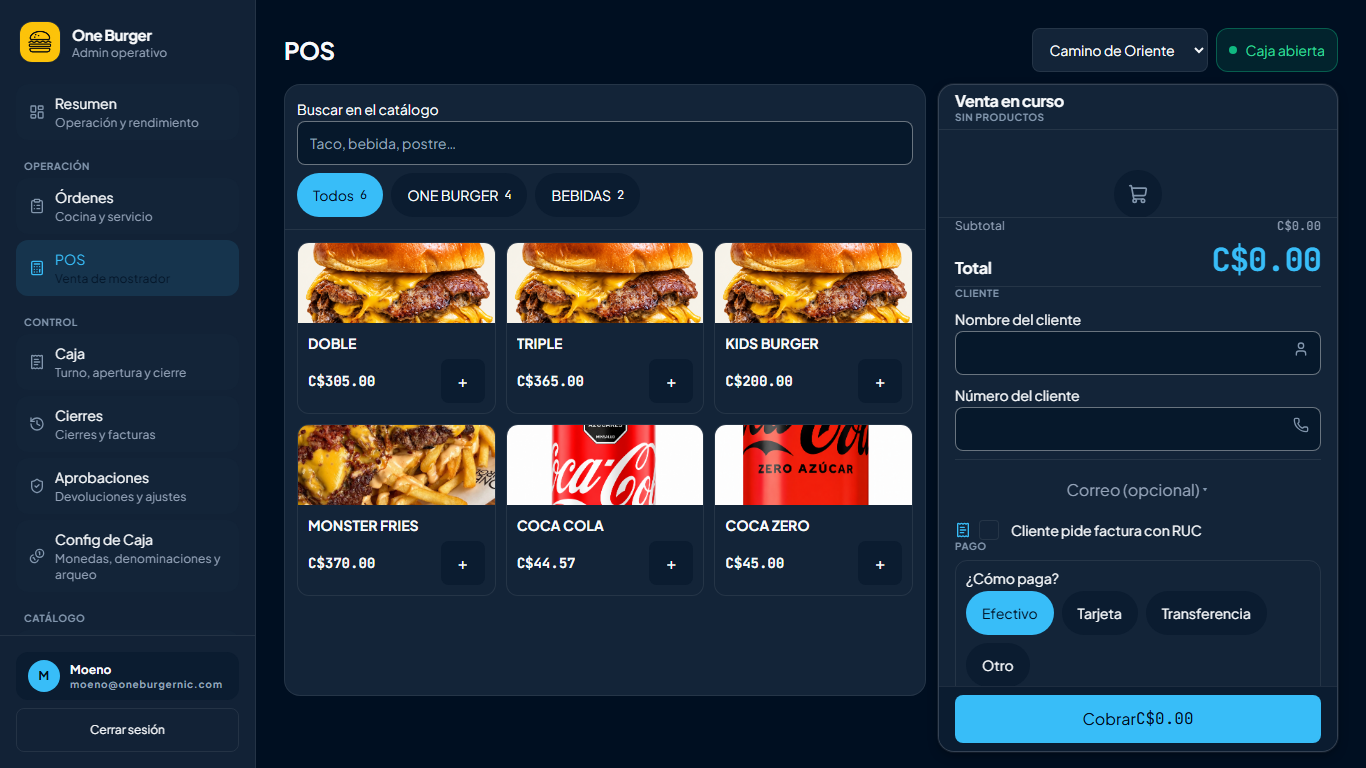
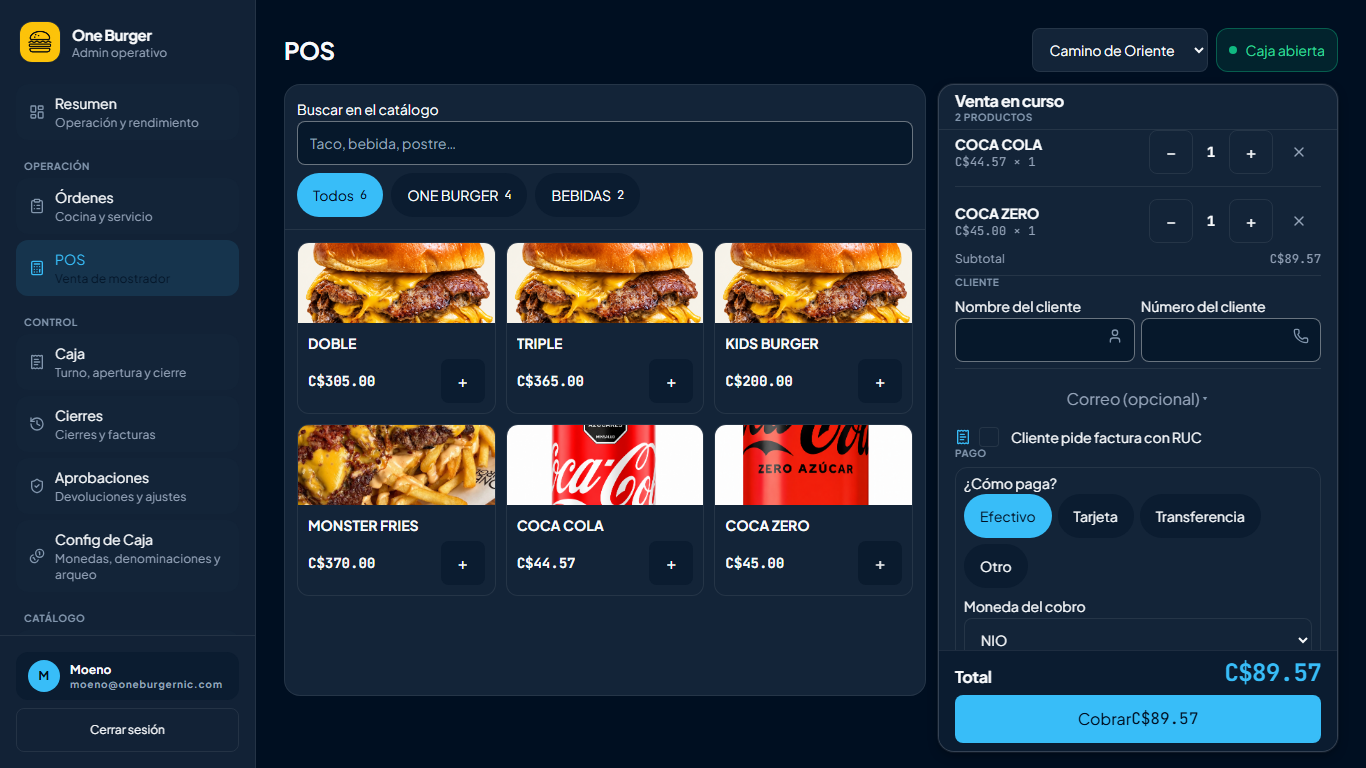
docs(estado): cierra POS Fase 1 definitivamente (001.2 desplegada y QA de produccion hecha) (#72)
Problema: el cierre de TASK exige que ops/CURRENT.md, la spec y el roadmap reflejen lo
desplegado y lo verificado. La 001.2 (ticket de un solo scroll) quedo en produccion como
build-20260927-193653 sobre 4f69a24 y la QA autenticada ya corrio en los cuatro viewports.

Cambios:
- ops/CURRENT.md: ultimo deploy, commit de main y §4/§5 con POS Fase 1 CERRADA
  DEFINITIVAMENTE. La QA autenticada de produccion se registra con su medicion real sobre
  la carta real del local: una sola superficie con scroll en el ticket, ninguna fila
  cortada, pagoOffset 0 a 1366x768 y 1280x720, cero scroll horizontal y scroll de pagina 0
  en escritorio (375x812 queda en 155 px, que es el comportamiento de la referencia).
- ops/design/screens/pos-quick-sale.md: estado con el build y el commit, y la tabla de
  medicion de la esquina mas ajustada.
- ops/roadmap/NEXT.md y PRODUCT-UX-ROADMAP.md: la Fase 1 cerrada definitivamente y la
  Fase 2 como decision aparte del owner (no se inicia sola).
- Capturas de produccion de los cuatro viewports.

Sin codigo, sin dominio, sin endpoints, sin DB y sin migraciones. La Fase 2 NO se inicia.

Verificacion: contratos 145 verdes (ops/CURRENT.md en 249 lineas, bajo su techo de 250);
/api/health = build-20260927-193653 y /api/readiness ready (DB 2 ms); smokes 7/7 y 6/6.

diff --git a/ops/CURRENT.md b/ops/CURRENT.md
@@ -8,10 +8,10 @@ en qué estado está el sistema en pocos minutos.
 [`.agents/CONTEXT.md`](../.agents/CONTEXT.md)). Este archivo se **actualiza seguido** y se mantiene
 corto: si crece como un diario, dejó de servir.
 
-> **Última actualización**: 2026-09-26, por el release de **`SCREEN-POS-QUICK-SALE-001.1`** (cierre visual y
-> contractual de POS Fase 1, **desplegado**; ver §1 y §4). **POS Fase 1 queda COMPLETA**: con las credenciales
-> de admin que dio el owner se corrió la **QA autenticada en producción** a los cuatro viewports del contrato
-> (`1366×768`, `1280×720`, `768×1024`, `375×812`). **La Fase 2 NO se inició.**
+> **Última actualización**: 2026-09-27, por el release de **`SCREEN-POS-QUICK-SALE-001.2`** (corrección final
+> del ticket, **desplegado**; ver §1 y §4). **POS Fase 1 — Venta rápida queda CERRADA DEFINITIVAMENTE**: la
+> pantalla tiene un solo scroll, no comprime la lista de líneas y la **QA autenticada de producción** corrió a
+> los cuatro viewports del contrato (`1366×768`, `1280×720`, `768×1024`, `375×812`). **La Fase 2 NO se inició.**
 > **Vigente desde hoy: el Default E2E Delivery Contract** ([`.agents/skills/delivery-e2e/SKILL.md`](../.agents/skills/delivery-e2e/SKILL.md)):
 > una TASK aprobada declara su **Delivery Mode** y se ejecuta hasta el estado final **sin pedir permisos
 > intermedios**, y el **backup se decide por riesgo del release**, no por frecuencia (`A-57` sigue abierto como
@@ -27,8 +27,8 @@ corto: si crece como un diario, dejó de servir.
 
 | Qué | Estado |
 |---|---|
-| **Último deploy** | `build-20260926-202551`, sobre `3c6951a` (`main` con el cierre visual de POS Fase 1, PR #67), 2026-09-26 20:25 UTC. `/api/health` = `build-20260926-202551`, `/api/readiness` `ready` (DB 2 ms), smokes **menú 7/7** y **hosts 6/6**, y **QA autenticada en producción** a `1366×768`, `1280×720`, `768×1024` y `375×812` (§4). **Sin backup manual**: no hay migración ni cambio de datos |
-| **`main`** | `3c6951a` (PR #67, squash) — el commit que está en producción. CI verde en cada push a `main` (los cuatro checks + `publish`) |
+| **Último deploy** | `build-20260927-193653`, sobre `4f69a24` (`main` con el cierre definitivo de POS Fase 1: PR #69, #70 y #71), 2026-09-27 19:37 UTC. `/api/health` = `build-20260927-193653`, `/api/readiness` `ready` (DB 2 ms), smokes **menú 7/7** y **hosts 6/6**, y **QA autenticada en producción** a `1366×768`, `1280×720`, `768×1024` y `375×812` (§4). **Sin backup manual**: no hay migración ni cambio de datos |
+| **`main`** | `4f69a24` (PR #71, squash) — el commit que está en producción. CI verde en cada push a `main` (los cuatro checks + `publish`) |
 | **Migración aplicada en este deploy** | **Ninguna**: el release es de pantalla. La última sigue siendo `20260925120000_add_payment_void`, aplicada el 2026-09-25 |
 | **Rollback target** | `build-20260926-170322` sobre `be4c051` (Venta rápida, `SCREEN-POS-QUICK-SALE-001`) — la aplicación se revierte revirtiendo el commit en `main` y volviendo a disparar `deployService`; la base no se toca (ninguno de los dos releases migró) |
 | **Modelo de deploy** | Easypanel, proyecto `brunobot`, servicio `oneburguerweb`; build **desde GitHub `main`** con `forceRebuild`. Una sola llamada a `deployService` (la llamada puede cortar por timeout y el build sigue en segundo plano: comportamiento conocido) |
@@ -41,16 +41,16 @@ corto: si crece como un diario, dejó de servir.
 | **Datos de negocio** | 3 sucursales reales (Camino de Oriente, Carretera Masaya, Casa Antigua). La carta la sigue cargando el owner |
 | **Caja en producción** | Sin terminales de caja cargadas al momento del último QA: es el estado real del negocio, no un defecto |
 
-✅ **QA autenticada de producción del POS (2026-09-26, hecha)**: con las credenciales que dio el owner —a
-diferencia de los releases anteriores, donde este paso quedaba pendiente— la pantalla se abrió **en producción
-con sesión** a los cuatro viewports del contrato (`1366×768`, `1280×720`, `768×1024`, `375×812`), medidos en el
-navegador contra `build-20260926-202551`: **cero scroll horizontal** en los cuatro; barra operativa en **una
-línea** (44 px); sin hero ni `Cobrar pedido del menú`; catálogo de **612 px** de 668 a `1366×768` y **564** de
-620 a `1280×720`, con **3 columnas** en escritorio y 2 abajo de `lg`; el `Cobrar C$…` visible con su pie en 743
-y 695 px (dentro de 768 y 720) y **sin scroll de página** en los dos tamaños de escritorio; abajo de `lg` el
-CTA **no** se dibuja hasta abrir el sheet (el patrón de la referencia), que abre con su total. Health,
-readiness y los dos smokes **7/7** y **6/6** en §1. Las credenciales se usaron solo por entorno y **no** se
-guardan en el repo.
+✅ **QA autenticada de producción del POS (2026-09-27, hecha sobre el build final `build-20260927-193653`)**:
+la pantalla se abrió **en producción con sesión** a los cuatro viewports del contrato (`1366×768`, `1280×720`,
+`768×1024`, `375×812`), con la **carta real del local** (2 productos sin modificadores). Medido en el
+navegador: **una sola** superficie con scroll dentro del ticket en los cuatro; **ninguna fila cortada**;
+**cero scroll horizontal**; `Cobrar C$…` siempre visible; y a `1366×768` y `1280×720` la **forma de pago entra
+sin scrollear** (`pagoOffset 0`) y el **scroll de página es 0**.
+
+⚠ **`375×812` es el único con scroll de página (155 px)**: es el comportamiento de la referencia aprobada —la
+vista primaria es el catálogo y el ticket vive en el sheet—. Health, readiness y los dos smokes **7/7** y
+**6/6** en §1. Las credenciales se usaron solo por entorno y **no** se guardan en el repo.
 
 ✅ **Venta real cobrada en producción (2026-09-26)**: además del contrato de viewport se ejercitó el flujo
 completo con una venta de mostrador de verdad —`COCA COLA` (el primer producto **sin** modificadores de la
@@ -164,15 +164,14 @@ está **aprobado y desplegado**; **`IA-001`** (navegación del panel) también; 
 **`SCREEN-POS-QUICK-SALE-001`** la segunda ([`design/screens/pos-quick-sale.md`](design/screens/pos-quick-sale.md)).
 Lo que sigue es **`SCREEN-001 — Resumen`**, que **no se inició**.
 
-**SCREEN-POS-QUICK-SALE-001.1 — POS Fase 1 / Venta rápida (CERRADA: Fase 1 COMPLETA)**: la 001 adoptó el
-workspace `CATÁLOGO | VENTA` (`be4c051`, `build-20260926-170322`) y la **001.1** lo corrigió contra la
-**referencia revisada del owner**: hero y explicaciones fuera, barra operativa de **una línea**, acciones de
-caja **solo donde bloquean el cobro**, `Cobrar pedido del menú` fuera del POS (*one canonical flow*: Órdenes
-localiza, POS cobra), catálogo y ticket a **alto útil** y opciones secundarias plegadas. **Sin dominio, sin
-endpoints, sin permisos y sin DB.** La **QA autenticada de producción** del contrato de viewport encontró tres
-defectos visuales —catálogo a su alto natural (496 px de 668), cuatro columnas con tarjetas de 147 px y el CTA
-diciendo `CobrarC$…`— que este release corrige y vuelve a medir (detalle y evidencia en
-[`design/screens/pos-quick-sale.md`](design/screens/pos-quick-sale.md)). **La Fase 2 NO se inició.**
+**SCREEN-POS-QUICK-SALE-001.1 y 001.2 — POS Fase 1 / Venta rápida (CERRADA DEFINITIVAMENTE)**: la 001 adoptó
+el workspace `CATÁLOGO | VENTA` (`be4c051`) y la **001.1** lo corrigió contra la **referencia revisada del
+owner**: hero y explicaciones fuera, barra operativa de **una línea**, acciones de caja **solo donde bloquean
+el cobro**, `Cobrar pedido del menú` fuera del POS (*one canonical flow*: Órdenes localiza, POS cobra) y
+opciones secundarias plegadas. La **001.2** corrigió la composición del ticket: el panel **no comprime la
+lista de líneas** y tiene **un solo scroll** (líneas + checkout en la misma superficie), con el **total en el
+pie** junto al CTA. **Sin dominio, sin endpoints, sin permisos y sin DB** en las tres. Detalle, mediciones y
+evidencia en [`design/screens/pos-quick-sale.md`](design/screens/pos-quick-sale.md). **La Fase 2 NO se inició.**
 
 **SCREEN-ORDERS-001 — Órdenes (cerrada, `fff8d71`, desplegada)**: discovery, arquitectura/IA, spec, prototipo
 y capturas → implementación bajo DS v4 → QA de navegador a 375/768/1280 → PR #57 con CI verde. Entregado: los
@@ -199,9 +198,10 @@ aprobó el owner, en [`roadmap/`](roadmap/).
 
 **Baseline de `DS-001` (2026-09-26, cerrado)**: `4dc2cbb` → `build-20260926-003808`, sin migraciones; superado por `IA-001` + Órdenes (ver §1).
 
-**Release de `SCREEN-POS-QUICK-SALE-001.1` (2026-09-26, CERRADO — POS Fase 1 COMPLETA)**: `main` = `3c6951a`
-**desplegado** sirviendo `build-20260926-202551`, con las tres correcciones de la QA autenticada y la **venta
-real cobrada** en producción (§4). Sin migraciones, sin dominio y sin backup.
+**Release de `SCREEN-POS-QUICK-SALE-001.2` (2026-09-27, CERRADO — POS Fase 1 CERRADA DEFINITIVAMENTE)**:
+`main` = `4f69a24` **desplegado** sirviendo `build-20260927-193653`, con el ticket de **un solo scroll**, el
+total en el pie y la QA autenticada de producción en los cuatro viewports (§4). Reabrió POS Fase 1 **solo**
+para el defecto del ticket; **sin migraciones, sin dominio y sin backup**.
 
 **El bloque financiero de la remediación quedó cerrado y desplegado** (`AUD-003..006`, `A-54`, `A-55`,
 `A-58`, `A-59`) y con él la **fase de estabilización técnica**. Lo que sigue, en orden:

diff --git a/ops/roadmap/NEXT.md b/ops/roadmap/NEXT.md
@@ -2,17 +2,19 @@
 
 ## Ahora
 
-**`SCREEN-POS-QUICK-SALE-001.1 — POS Fase 1 / Venta rápida` CERRADA: la Fase 1 está COMPLETA** (2026-09-26).
-La 001 (PR #62, `be4c051`, `build-20260926-170322`) convirtió la Venta rápida en un **workspace
-`CATÁLOGO | VENTA`** —ticket anclado al viewport en escritorio, barra + sheet en celular y tablet y opciones
-secundarias bajo demanda— y la **001.1** la corrigió contra la **referencia revisada del owner** (hero fuera,
-barra operativa de una línea, acciones de caja solo donde bloquean el cobro, `Cobrar pedido del menú` fuera del
-POS, catálogo y ticket a alto útil) y le agregó los guardrails de **reuse-first**, **one canonical flow**,
-**reuse audit**, **reference fidelity** y **viewport contract**. La spec canónica vive en
-[`../design/screens/pos-quick-sale.md`](../design/screens/pos-quick-sale.md); el deploy (`build-20260926-202551`
-sobre `3c6951a`), la **QA autenticada de producción a los cuatro viewports** (`1366×768`, `1280×720`,
-`768×1024`, `375×812`) y los dos smokes están en [`../CURRENT.md`](../CURRENT.md) §1 y §4. **La Fase 2 NO se
-inició.**
+**`SCREEN-POS-QUICK-SALE-001.1` y `001.2 — POS Fase 1 / Venta rápida` CERRADAS: la Fase 1 quedó CERRADA
+DEFINITIVAMENTE** (2026-09-27). La 001 convirtió la Venta rápida en un **workspace `CATÁLOGO | VENTA`**
+—ticket anclado al viewport en escritorio, barra + sheet en celular y tablet y opciones secundarias bajo
+demanda—; la **001.1** la corrigió contra la **referencia revisada del owner** (hero fuera, barra operativa de
+una línea, acciones de caja solo donde bloquean el cobro, `Cobrar pedido del menú` fuera del POS, catálogo y
+ticket a alto útil) y le agregó los guardrails de **reuse-first**, **one canonical flow**, **reuse audit**,
+**reference fidelity** y **viewport contract**; y la **001.2** corrigió la **composición del ticket**: no
+comprime la lista de líneas, tiene **un solo scroll** (líneas + checkout en la misma superficie) y el **total
+en el pie** junto al CTA. La spec canónica vive en
+[`../design/screens/pos-quick-sale.md`](../design/screens/pos-quick-sale.md); el deploy
+(`build-20260927-193653` sobre `4f69a24`), la **QA autenticada de producción a los cuatro viewports**
+(`1366×768`, `1280×720`, `768×1024`, `375×812`) y los dos smokes están en [`../CURRENT.md`](../CURRENT.md) §1
+y §4. **La Fase 2 NO se inició.**
 
 **`SCREEN-ORDERS-001 — Órdenes` cerrada y desplegada** (2026-09-26): es la **primera sección rediseñada de
 punta a punta** con el proceso completo —discovery, arquitectura/IA, spec de pantalla, prototipo y capturas,

diff --git a/ops/roadmap/PRODUCT-UX-ROADMAP.md b/ops/roadmap/PRODUCT-UX-ROADMAP.md
@@ -678,13 +678,14 @@ IA-001 — navegación del panel
         ↓
 SCREEN-ORDERS-001 — Órdenes ✅
         ↓
-SCREEN-POS-QUICK-SALE-001.1 — POS Fase 1 / Venta rápida ✅ (Fase 1 COMPLETA)
+SCREEN-POS-QUICK-SALE-001.1 + 001.2 — POS Fase 1 / Venta rápida ✅ (CERRADA DEFINITIVAMENTE)
 │
 ├── workspace CATÁLOGO | VENTA (ticket anclado en escritorio)
 ├── barra + sheet en celular y tablet · opciones secundarias bajo demanda
 ├── referencia del owner aplicada: barra de una línea, caja solo donde bloquea el cobro
+├── ticket con UN solo scroll: líneas completas, total en el pie junto al CTA
 ├── guardrails: reuse-first · one canonical flow · reuse audit · reference fidelity · viewport contract
-├── desplegado (`build-20260926-202551` sobre `3c6951a`) y QA autenticada de producción en los 4 viewports
+├── desplegado (`build-20260927-193653` sobre `4f69a24`) y QA autenticada de producción en los 4 viewports
 └── cero dominio / DB · Fase 2 NO iniciada
         ↓
 POS Fase 2 — pedidos existentes / pagos / bancos / USD / factura

diff --git a/ops/design/screens/pos-quick-sale.md b/ops/design/screens/pos-quick-sale.md
@@ -2,11 +2,10 @@
 
 > **Plantilla**: [`TEMPLATE.md`](TEMPLATE.md).
 >
-> **Estado: `SCREEN-POS-QUICK-SALE-001.2` desplegada** (2026-09-26): la 001.1 quedó en
-> `build-20260926-202551` sobre `3c6951a` con QA autenticada de producción a los cuatro viewports del
-> contrato, y la **001.2** corrigió la composición del ticket (las líneas ya no se comprimen) y limpió las
-> contradicciones de esta spec y de la referencia. La Venta rápida de la Fase 1 queda **completa**; la Fase 2
-> **no** se inició.
+> **Estado: `SCREEN-POS-QUICK-SALE-001.2` desplegada y con QA autenticada de producción cerrada** (2026-09-27):
+> `main` = `4f69a24`, sirviendo `build-20260927-193653`, con la QA en navegador real contra producción a los
+> cuatro viewports del contrato (`1366×768`, `1280×720`, `768×1024`, `375×812`). **POS Fase 1 — Venta rápida
+> queda CERRADA DEFINITIVAMENTE**; la Fase 2 **no** se inició.
 >
 > **Corrección visual y contractual**: la referencia anterior queda **reemplazada** para composición, densidad y
 > comportamiento responsive.
